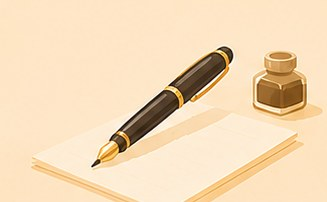
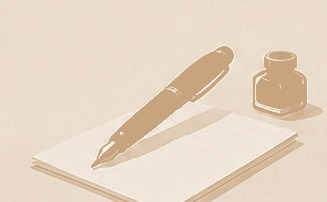
fix(art): 대화 배너 13장 **카멜로** · 대비를 다시 재서 맞춤 · 교체 브리프
Boss 2026-08-25 *"대화마다 중간에 나오는 이미지들이 너무 별로야 다 바꾸자"*

■ 지금 할 수 있는 것 — **색을 맞췄다**
  13장이 **라벤더 벡터 배너**라 카멜 테마와 따로 놀았다. 로고와 같은 방법(회색조 → 듀오톤)으로 갈았다.
  ⚠Boss 가 말한 *"별로"* 는 **색이 아니라 그림 자체**다 — 색 교체로는 해결되지 않는다.
    새로 그리려면 이미지 컴퓨터가 필요해 **브리프**(`docs/design/banner-art-brief.md`)를 남겼다.

■ ★★대비를 **세 번 다시 잡았다** — 하네스가 계속 물었다
  ①`#7A5230` 로 갈았더니 그림이 **너무 어두워져** 그 위 먹색 부제가 안 읽혔다(1.90~3.91 < 4.5)
  ②`#BC9670` 도 아슬하게 미달(4.13~4.35)
  ③`#C7A47E` 로 통과. **먹(#2E2720) 대비 4.5 이상**을 계산으로 먼저 잡고 골랐다.
  ⇒ 배너는 **글자가 올라가는 바닥**이라 "예쁜 색"이 아니라 **읽히는 색**이어야 한다
    ([[design-not-automatically-right]] — 배너 흰글자로 이미 당한 자리다).

■ `BANNER_FIELD` 13개도 **실측값으로 갱신**
  그림을 바꾸면 이 표도 바꿔야 한다 — 안 바꾸면 카드 배경과 그림 사이에 **이음매**가 보인다.
  `check:bannerart` B3 가 그걸 잡았다.

preflight EXIT=0.

Claude-Session: https://claude.ai/code/session_01RHa7ysw4Bf3YSU1bw5BqWP

diff --git a/app/src/lib/ui/brandAsset.ts b/app/src/lib/ui/brandAsset.ts
@@ -92,15 +92,18 @@ export type BannerArt =
  */
 // ⚠`Record<BannerArt, …>` 라 새 이름을 추가하면 여기도 채워야 한다(타입이 강제한다).
 //   대화용 셋은 배너로 쓰이지 않지만, 값을 비워 둘 수 없으므로 계열이 가까운 색을 준다.
+// ★★2026-08-25 카멜 전환으로 **전부 다시 쟀다**(`npm run measure:bannerart`).
+//   그림을 바꾸면 이 표도 같이 바꿔야 한다 — 안 바꾸면 카드 배경과 그림 사이에 **이음매**가 보인다.
+//   `check:bannerart` B3 가 그걸 잡는다(실측 바탕색과 다르면 실패).
 export const BANNER_FIELD: Record<BannerArt, string> = {
-  balloon: '#E7E8FD', couple: '#E9ECFF', moonlake: '#DADEFC',
-  door: '#FFEEDB', sunrise: '#FEE8C9',
-  clover: '#F0F0E4', tree: '#F1F1E7',
-  stairs: '#FCDDDD', butterfly: '#FCDEDE',
-  candle: '#EDE9F7',
+  balloon: '#EADDCD', couple: '#EEE2D4', moonlake: '#E1CFB9',
+  door: '#F1E7DC', sunrise: '#ECDED0',
+  clover: '#F0E6DA', tree: '#F1E7DD',
+  stairs: '#E6D5C3', butterfly: '#E6D7C4',
+  candle: '#ECE0D1',
   // 대화용 셋(2026-08-20) — ★기존 값과 **같은 방법**으로 뽑았다(그림 좌상단 1/4 의 중앙값).
   //   눈으로 고르지 않는다 — 배경이 그림 바탕색과 어긋나면 그림 자리에 밝은 사각형이 뜬다.
-  compass: '#ECE8F6', forest: '#B1BBF9', pen: '#FFE6C7',
+  compass: '#ECDFCF', forest: '#C7A47E', pen: '#EADCCD',
 };
 
 /**
